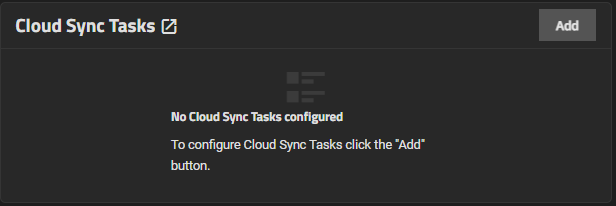
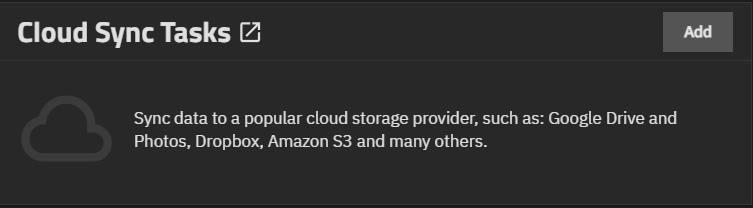
PD-2203 Update Cloud Sync Task Content
This commit updates the widget without tasks screenshot and makes minor content changes. It makes grammar/spell checker changes.

diff --git a/content/SCALE/SCALEUIReference/DataProtection/CloudSyncTasksScreensSCALE.md b/content/SCALE/SCALEUIReference/DataProtection/CloudSyncTasksScreensSCALE.md
@@ -19,31 +19,32 @@ Cloud sync tasks are an effective data backup method that sends data to a remote
 ## Cloud Sync Task Widget
 
 The **Cloud Sync Task** widget lists tasks configured on the system.
+The widget shows a description of cloud sync tasks before adding a task.
 
-{{< trueimage src="/images/SCALE/DataProtection/CloudSyncTaskWidget.png" alt="Cloud Sync Task Widget" id="Cloud Sync Task Widget" >}}
-
-The widget shows **No Cloud Sync Tasks configured** until cloud sync tasks are added.
-
+{{< columns >}}
 {{< trueimage src="/images/SCALE/DataProtection/CloudSyncTaskWidgetNoTasks.png" alt="No Cloud Sync Tasks" id="No Cloud Sync Tasks" >}}
+<--->
+{{< trueimage src="/images/SCALE/DataProtection/CloudSyncTaskWidget.png" alt="Cloud Sync Task Widget" id="Cloud Sync Task Widget" >}}
+{{< /columns >}}
 
-Click on the widget header to open the [**Cloud Sync Task**](#cloud-sync-task-screen) screen that lists all tasks configured on the system.
+The widget header opens the [**Cloud Sync Task**](#cloud-sync-task-screen) screen that lists all tasks configured on the system.
 
 **Add** on the widget and the **Cloud Sync Task** screen opens the **[Cloudsync Task Wizard](#cloudync-task-wizard)**.
 
-Each task includes a vertical ellipses <span class="material-icons">more_vert</span> icon that opens a dropdown menu with five options for various functions:
+The vertical ellipses <span class="material-icons">more_vert</span> opens a dropdown menu with five options for various functions for each task:
 
-* The <span class="material-icons">edit</span> **Edit** icon opens the **[Edit Cloud Sync Task](#advanced-options-and-edit-cloud-sync-task-screens)** screen populated with with the settings for that task.
+* **<span class="material-icons">edit</span> Edit** opens the **[Edit Cloud Sync Task](#advanced-options-and-edit-cloud-sync-task-screens)** screen populated with with the settings for that task.
 
-* The <span class="material-icons">play_circle_filled</span> **Run Now** icon starts the cloud sync, running it outside of the scheduled time. 
+* **<span class="material-icons">play_circle_filled</span> Run Now** starts the cloud sync, running it outside of the scheduled time. 
 
-* The <span class="material-icons">loop</span> **Dry Run** icon performs the same function as the **Dry Run** button on the add and edit configuration screens.
+* **<span class="material-icons">loop</span> Dry Run** performs the same function as the **Dry Run** button on the add and edit configuration screens.
   It tests and validates the configured settings.
   During a dry run, you can close the window and monitor the task using the **Jobs** option on the top toolbar.
 
-* The <span class="material-icons">restore</span> **Restore** icon creates a new cloud sync task from an existing task.
+* **<span class="material-icons">restore</span> Restore** creates a new cloud sync task from an existing task.
   The new task has the same settings but reverses the data transfer.
 
-* The <span class="material-icons">delete</span> **Delete** icon opens a confirmation dialog before the system deletes the task.
+* **<span class="material-icons">delete</span> Delete** opens a confirmation dialog before the system deletes the task.
 
 **State** shows the status of the next cloud sync task:
   * **SUCCESS** for completed tasks.
@@ -70,7 +71,7 @@ Buttons for these task options perform the same functions as the icons on the wi
 * **Dry Run** performs a test of the configuration. 
   This is the same function as the **Dry Run** button on the **Edit Cloud Sync Task** screen and the **Advanced Options** for the **Cloudsync Task Wizard**. 
 
-* **Restore** opens the **Restore Cloud Sync Task** window where you can create a new cloud sync task from an existing task with the same options, but the new task reverses the transfer from PUSH to PULL and vice-versa.
+* **Restore** opens the **Restore Cloud Sync Task** window, where you can create a new cloud sync task from an existing task with the same options, but the new task reverses the transfer from PUSH to PULL and vice-versa.
 
 {{<include file="/static/includes/addcolumnorganizer.md">}}
   
@@ -132,8 +133,8 @@ The **What and When** screen sets the direction (push or pull), transfer mode (m
 
 ### Remote Settings
 The **Remote** settings specify the cloud sync provider and destination storage locations.
-The option selected in **Credential** changes settings displayed in the **Remote** settings area.
-The **Manage Credentials** link opens the **Backup Credentials** screen where you can add a new provider credential.
+The option selected in **Credential** changes settings in the **Remote** settings area.
+The **Manage Credentials** link opens the **Backup Credentials** screen, where you can add a new provider credential.
 
 {{< truetable >}}
 | Settings | Description |
@@ -165,7 +166,7 @@ Click **Save** on the **Add bucket** screen to create the remote bucket on Storj
 | Settings | Description |
 |----------|-------------|
 | **Schedule** | Shows a list of schedule preset options. See **Schedule Presets** below for more info. |
-| **Enabled** | Enables this cloud sync task. Leave clear to disable the task without deleting it and keep the configuration available without allowing the specified schedule to run the task. You can use the toggle in the **Enable** column on the **Cloud Sync Tasks** widget to enable or disable the task. |
+| **Enabled** | Enables this cloud sync task. Leave clear to disable the task without deleting it, and keep the configuration available without allowing the specified schedule to run the task. You can use the toggle in the **Enable** column on the **Cloud Sync Tasks** widget to enable or disable the task. |
 {{< /truetable >}}
 
 {{< include file="/static/includes/SchedulePresetOptions.md" >}}
